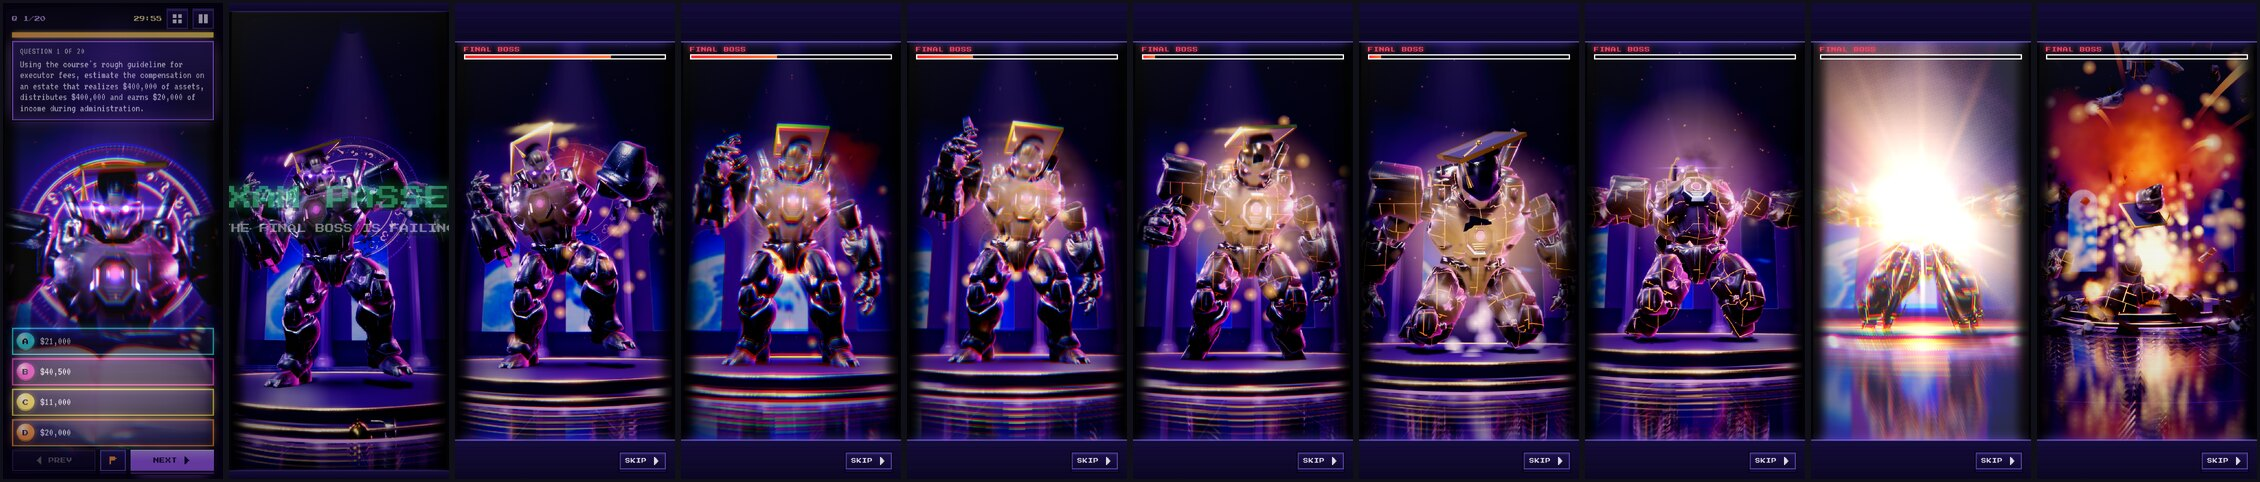
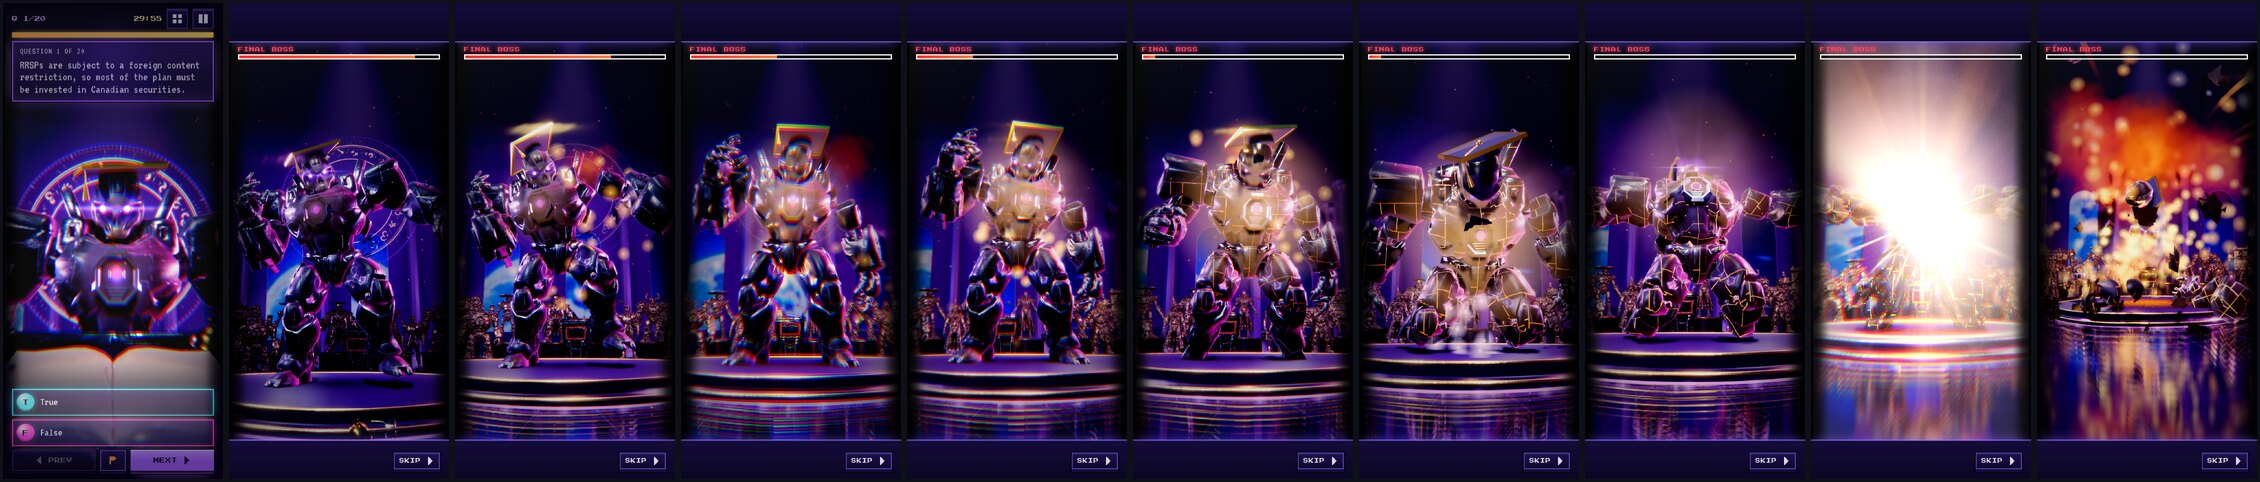
Final Exam: the fallen bosses' statues and the examiner's first desk, seen in the ending
The eleven chapter bosses and the Proctor (statue-1 .. statue-11, statue-all) stand as one set of dark bronze
statues on two interleaved tiers of plinths behind the dais, merged into one mesh with one material (one draw), lit
by the moon's reflection and the hall's own lamps; their patchy maps are not used. decor-podium, the first darker
lectern, stands on the centre line at the foot of the gallery. Nothing is drawn while the questions are up; the
light comes up on them on the show clock when the ending begins. All of it is skipped when GFX.extras === false.

Claude-Session: https://claude.ai/code/session_01SXN4PWw2h7NprrScNwTTGU

diff --git a/arcade/src/js/24e-examhall.js b/arcade/src/js/24e-examhall.js
@@ -1,0 +1,90 @@
+// The Final Exam's gallery of the fallen, served (opened from disk the hall is exactly as it was):
+//   the eleven chapter bosses and the Proctor as statues (statue-1 .. statue-11, statue-all: the other builds of each
+//   boss's own design), smaller than the examiner, on plinths in two tiers behind its dais. One cast bronze for all
+//   twelve, lit by the moon (the panorama's reflection) and the hall's own lamps; their own maps are not used (where a
+//   build was simplified they are patchy). The twelve and their plinths are one mesh: one draw.
+//   On the hall's centre line, at the foot of the gallery, the examiner's first desk (decor-podium, the darker
+//   lectern), lit by the same night.
+// While the questions are up the camera is under the examiner's chin, and none of this may stand behind the question,
+// the answers or the timer: it waits in the dark, not drawn. When the ending begins (the examiner falls, or makes its
+// last stand) and the camera draws back, the light comes up on it. Look only, on the show clock: nothing here knows a
+// question, an answer or a clock. GFX.extras === false (slow frames) leaves all of it out.
+const EXAM_HALL = {
+  // model, x, z (on the floor), height, plinth height. As the lens sees them the tiers interleave: each statue of the
+  // back tier stands between two of the front, a step higher. The widest builds take the back tier, where there is room.
+  STATUES: [
+    ["statue-7", -3.0, -8.06, 3.1, 0.42], ["statue-1", 3.0, -8.06, 3.1, 0.42],
+    ["statue-6", -5.58, -6.55, 3.1, 0.42], ["statue-3", 5.58, -6.55, 3.1, 0.42],
+    ["statue-8", -7.5, -4.2, 3.1, 0.42], ["statue-11", 7.5, -4.2, 3.1, 0.42],
+    ["statue-all", -1.8, -12.67, 3.5, 1.3], ["statue-9", 1.8, -12.67, 3.4, 1.3],
+    ["statue-4", -5.2, -11.7, 3.4, 1.3], ["statue-2", 5.2, -11.7, 3.4, 1.3],
+    ["statue-5", -8.1, -9.9, 3.2, 1.3], ["statue-10", 8.1, -9.9, 3.4, 1.3],
+  ],
+  FACE: [0, 16], // each turned to this point of the floor: the front of the hall, where the lens stands
+  BRONZE: 0x5c4634, ROUGH: 0.28, ENV: 1.7, // (a dark bronze, not so warm that the moon's blue and the hall's violet cannot show in it)
+  PLINTH: [0.15, 0.13, 0.2], GOLD: [1.5, 1.3, 0.95], // (times the bronze: the plinths' black and their gold bands, as the dais's)
+  DESK: { x: 0, z: -7.5, s: 2.9 }, // (on the centre line: on a phone it is seen between the examiner's feet, and once it has fallen)
+  FADE: 1.6, // seconds for the light to come up on them
+};
+function examHall(game) {
+  if (!Assets.on || !game.has3D) return null;
+  const H = EXAM_HALL, got = H.STATUES.map((s) => Assets.model(s[0])), desk = Assets.model("decor-podium");
+  if (GFX.extras === false) { got.concat([desk]).forEach((m) => m && disposeTree(m.scene)); return null; }
+  const G = { k: 0, shown: -1, mesh: null, desk: null }, s = game.scene;
+  const env = (game.gen && game.gen.sky && game.gen.sky.env) || (game.bossEnvRT && game.bossEnvRT.texture) || null;
+  const paint = (geo, f) => {
+    const p = geo.attributes.position, c = new Float32Array(p.count * 3);
+    for (let i = 0; i < p.count; i++) { const v = f(p.getX(i), p.getY(i), p.getZ(i)); c[i * 3] = v[0]; c[i * 3 + 1] = v[1]; c[i * 3 + 2] = v[2]; }
+    geo.setAttribute("color", new THREE.BufferAttribute(c, 3));
+    return geo;
+  };
+  const geos = [], m = new THREE.Matrix4(), q = new THREE.Quaternion(), at = new THREE.Vector3(), sc = new THREE.Vector3(), up = new THREE.Vector3(0, 1, 0), white = [1, 1, 1];
+  H.STATUES.forEach(([, x, z, h, ph], i) => {
+    const model = got[i];
+    if (!model) return;
+    m.compose(at.set(x, ph, z), q.setFromAxisAngle(up, Math.atan2(H.FACE[0] - x, H.FACE[1] - z)), sc.setScalar(h));
+    const g = modelGeometry(model, m);
+    disposeTree(model.scene); // (its geometry is copied; its maps are never sent to the graphics chip)
+    if (!g) return;
+    geos.push(paint(g.geo, () => white));
+    // its plinth, sized to the figure: black, a gold band at its foot and under the figure, as the dais is
+    const r = clamp(0.45 * Math.max(g.box.max.x - g.box.min.x, g.box.max.z - g.box.min.z) + 0.15, 0.85, 1.55);
+    const lathe = examLathe([[r + 0.1, 0], [r + 0.1, 0.07, true], [r, 0.13, true], [r * 0.9, 0.19, true], [r * 0.9, ph - 0.17, true], [r, ph - 0.11, true], [r + 0.05, ph - 0.05, true], [r + 0.05, ph, true], [0, ph]], 24);
+    paint(lathe, (lx, ly, lz) => (ly < 0.075 || (ly > ph - 0.115 && Math.hypot(lx, lz) > r - 0.01) ? H.GOLD : H.PLINTH));
+    geos.push(lathe.translate(x, 0, z));
+  });
+  if (geos.length) {
+    const mat = new THREE.MeshStandardMaterial({ color: 0, metalness: 1, roughness: H.ROUGH, vertexColors: true, envMap: env, envMapIntensity: H.ENV });
+    surfaceDetail(mat, { scale: 2.2, height: 0.0014, grain: 1, scratch: 0.5, smudge: 0.6 }); // (cast, not turned: a grain, a few scratches)
+    G.mesh = new THREE.Mesh(mergeIndexed(geos, ["position", "normal", "color"]), mat);
+    G.mesh.visible = false;
+    G.mat = mat;
+    G.bronze = new THREE.Color(H.BRONZE);
+    s.add(G.mesh);
+  }
+  if (desk) {
+    const D = H.DESK;
+    G.deskMats = tuneModel(desk, { env: 2, glow: 1.6 }).map((mm) => ({ m: mm, c: mm.color.clone(), e: mm.emissiveIntensity }));
+    desk.scene.scale.setScalar(D.s);
+    desk.scene.position.set(D.x, 0, D.z);
+    desk.scene.rotation.y = Math.atan2(H.FACE[0] - D.x, H.FACE[1] - D.z);
+    desk.scene.visible = false;
+    s.add(desk.scene);
+    G.desk = desk;
+  }
+  return G.mesh || G.desk ? G : null;
+}
+// Each frame (show clock): from the moment the ending begins, the light comes up on the gallery and the desk.
+function examHallUpdate(game, dt) {
+  const G = game.hall;
+  if (!G) return;
+  const B = game.boss;
+  if (B && (B.mode === "die" || B.mode === "rage")) G.k = Math.min(1, G.k + dt / EXAM_HALL.FADE);
+  const on = G.k > 0 && GFX.extras !== false, k = G.k * G.k * (3 - 2 * G.k);
+  if (G.mesh) G.mesh.visible = on;
+  if (G.desk) G.desk.scene.visible = on;
+  if (!on || k === G.shown) return;
+  G.shown = k;
+  if (G.mesh) G.mat.color.copy(G.bronze).multiplyScalar(k);
+  if (G.desk) for (const d of G.deskMats) { d.m.color.copy(d.c).multiplyScalar(k); d.m.emissiveIntensity = d.e * k; }
+}

diff --git a/arcade/src/js/24-exam.js b/arcade/src/js/24-exam.js
@@ -400,7 +400,8 @@ class ExamGame extends QuizGame {
     s.add(ring);
     // served: the moonlit night through the windows, the examiner's lectern (24d-examgen.js)
     this.gen = examGen(this);
-    const moon = this.gen && this.gen.sky && this.gen.sky.env; // (then the boss's armour mirrors the moonlit night)
+    this.hall = examHall(this); // (served: the fallen bosses' statues behind the dais and the examiner's first desk, seen in the ending: 24e-examhall.js)
+    const moon =this.gen && this.gen.sky && this.gen.sky.env; // (then the boss's armour mirrors the moonlit night)
     // the final boss (24c-examboss.js): it stands and idles through the exam, whatever is answered
     try { this.boss = BossModel.ok() ? new ExamBoss(this, moon || (this.bossEnvRT ? this.bossEnvRT.texture : env)) : null; } catch (e) { this.boss = null; }
     if (!this.boss) {
@@ -672,6 +673,7 @@ class ExamGame extends QuizGame {
     if (!this.has3D) return;
     const t = this.t;
     examGenUpdate(this, dt); // (served: the moonlit sky round the lens; the lectern sinks away for the ending)
+    examHallUpdate(this, VFX.dt); // (and the light comes up on the gallery)
     this.dist += (this.distT - this.dist) * Math.min(1, dt * 2.5);
     const B = this.boss;
     if (B) {

diff --git a/arcade/tools/scenarios/menus.js b/arcade/tools/scenarios/menus.js
@@ -123,6 +123,8 @@ module.exports = async (cap) => {
   await still("13-exam");
   await cap.eval(() => { const s = window.__arcade.Scenes.cur; s.answers = s.rounds.map((r) => r.correct); s.submit(); });
   await strip("14-exam-passed", 10, 42, { thumb: 220, cols: 10 });
+  await cap.fast(90);
+  await still("14b-exam-gallery"); // (the fallen bosses' statues behind the wreck, the light up on them)
   }
 
   // ---- Strategy Guide: the archive, then a chapter opened (the camera turns to the shelves)

diff --git a/arcade/docs/combat-pass/menus/README.md b/arcade/docs/combat-pass/menus/README.md
@@ -22,6 +22,7 @@ show. Everything but the title was made again after the review's fix round.
 | `11-memory.jpg` | Memory Bank: the vault door's gold mirroring the generated gold vault, the deck of white study cards at its foot, THE VAULT on its plate. |
 | `12-memory-banked.jpg` | A card banked (one frame every 0.15 s): the banked card goes up into the vault's slot, the next is dealt off the deck into its place, the generated coin flies to the slot. |
 | `13-exam.jpg` | The Final Exam: the examiner, its armour mirroring the moonlit night and its chest's hollow smooth gunmetal, at its lectern (the open book and the bell at the foot of the frame). |
-| `14-exam-passed.jpg` | The exam passed (one frame every 0.7 s): the lectern sinks away, the examiner falls, the camera draws back into the hall with the full moon and the night in its left arch; the burst stays short of white. |
+| `14-exam-passed.jpg` | The exam passed (one frame every 0.7 s): the lectern sinks away, the examiner falls, the camera draws back into the hall with the full moon and the night in its left arch; the burst stays short of white. As the ending begins the light comes up on the gallery behind the dais: the eleven chapter bosses and the Proctor as bronze statues on two tiers of plinths, and the examiner's first desk on the centre line. |
+| `14b-exam-gallery.jpg` | After the blast: the gallery of statues and the first desk behind the wreck. |
 | `15-guide.jpg` | The Strategy Guide: the archive with the great book open on its stand under the rose window, its pages to the lens, lit by its own lamp and the archive's light. |
 | `16-guide-open-chapter.jpg` | A chapter opened (one frame every 0.13 s): the archive's view turns from the nave to the shelves behind the chapter's banner. |

diff --git a/arcade/docs/combat-pass/unused/STATUS-rooms.md b/arcade/docs/combat-pass/unused/STATUS-rooms.md
@@ -1,0 +1,22 @@
+# The last unused assets: the rooms (running note)
+
+Worker: the rooms (title, hub, Memory Bank, Final Exam, results, Strategy Guide). Worktree branch made from
+`claude/quirky-ride-9frte0` at 7117645.
+
+Standing rules from the coordinator (performance first): no new lights, no shadows; the twelve statues share one
+material and are merged; everything added is skippable behind `GFX.extras` (read as `GFX.extras !== false`, so it is
+on until the quality system switches it off); 04-gfx.js and 04b-pipeline.js are not touched.
+
+| # | Item | State |
+|---|---|---|
+| 1 | Final Exam: the twelve statues and decor-podium | done: `24e-examhall.js`; exam regression IDENTICAL both ways; menus 13, 14, 14b |
+| 2 | Memory Bank: decor-deck, the pile missed cards go back to | to do |
+| 3 | Strategy Guide: decor-tome in the archive's background | to do |
+| 4 | Hub: Boss Rush's cabinet calls "Boss incoming!" (two voices) | to do |
+| 5 | Results: the announcer's "CHAPTER COMPLETE" | to do |
+
+## Notes
+- 1: the ending's camera on a phone sees a narrow slice behind the examiner, so the statues stand in two interleaved
+  tiers on plinths in an arc behind the dais (inside the colonnade); the first desk stands on the centre line at the
+  foot of the gallery. They are not drawn while the questions are up (on a wide screen they would stand behind the
+  question and the answers); the light comes up on them when the ending begins.
